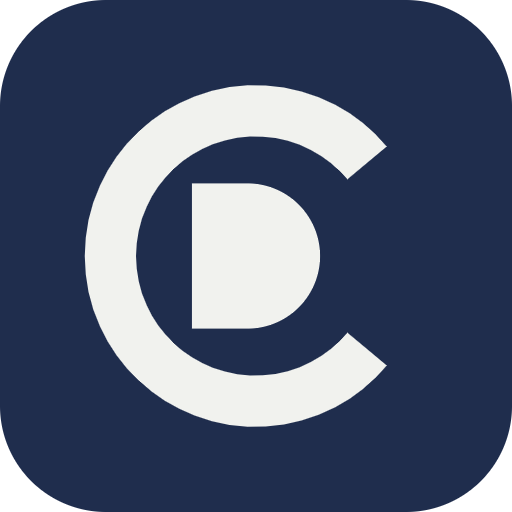
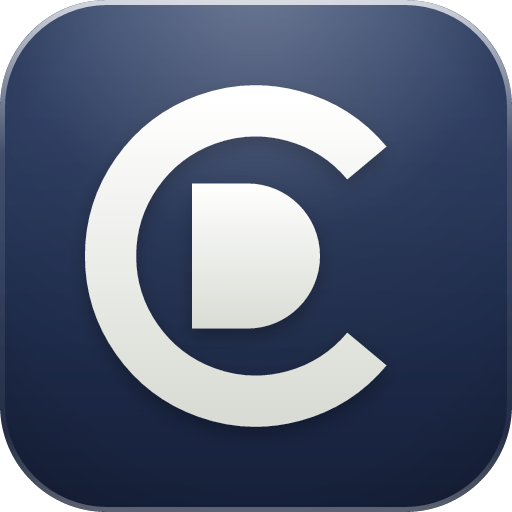
feat: ícones novos dos produtos na vitrine e troca de toda cópia do ícone antigo da DC Solutions

diff --git a/src/index-v4.html b/src/index-v4.html
@@ -45,11 +45,11 @@
   </div>
   <div class="varal">
     <ul class="wrap etiquetas" aria-label="Products">
-      <li><a class="tag t-iq" href="#iqnorth"><img src="/assets/v3/logos/iqnorth.svg" width="40" height="40" alt=""><b>IQNorth</b><span>Online IQ test</span><i>Live</i></a></li>
-      <li><a class="tag t-fyt" href="#fytform"><img src="/assets/v3/logos/fytform.svg" width="40" height="40" alt=""><b>Fytform</b><span>Workouts and diet</span><i>Live</i></a></li>
-      <li><a class="tag t-h2h" href="#h2hscout"><img src="/assets/v3/logos/h2hscout.svg" width="40" height="40" alt=""><b>H2HScout</b><span>Brasileirão in numbers</span><i>Closed beta</i></a></li>
-      <li><a class="tag t-pg" href="#partiugringa"><img src="/assets/v3/logos/partiugringa.svg" width="40" height="40" alt=""><b>PartiuGringa</b><span>Jobs abroad for devs</span><i>Live</i></a></li>
-      <li><a class="tag t-grim" href="#runemoire"><img src="/assets/v4/runemoire/icone-112.webp" width="40" height="40" alt=""><b>Runemoire</b><span>Card game for PC</span><i>In development</i></a></li>
+      <li><a class="tag t-iq" href="#iqnorth"><img src="/assets/v4/logos/iqnorth.svg" width="40" height="40" alt=""><b>IQNorth</b><span>Online IQ test</span><i>Live</i></a></li>
+      <li><a class="tag t-fyt" href="#fytform"><img src="/assets/v4/logos/fytform.svg" width="40" height="40" alt=""><b>Fytform</b><span>Workouts and diet</span><i>Live</i></a></li>
+      <li><a class="tag t-h2h" href="#h2hscout"><img src="/assets/v4/logos/h2hscout.svg" width="40" height="40" alt=""><b>H2HScout</b><span>Brasileirão in numbers</span><i>Closed beta</i></a></li>
+      <li><a class="tag t-pg" href="#partiugringa"><img src="/assets/v4/logos/partiugringa.svg" width="40" height="40" alt=""><b>PartiuGringa</b><span>Jobs abroad for devs</span><i>Live</i></a></li>
+      <li><a class="tag t-grim" href="#runemoire"><img src="/assets/v4/logos/runemoire.svg" width="40" height="40" alt=""><b>Runemoire</b><span>Card game for PC</span><i>In development</i></a></li>
     </ul>
   </div>
 </section>
@@ -63,7 +63,7 @@
 
     <article class="prod p-iq" id="iqnorth" aria-labelledby="h-iq">
       <div class="prod-txt">
-        <div class="prod-cab"><img src="/assets/v3/logos/iqnorth.svg" width="56" height="56" alt=""><div><h3 id="h-iq">IQNorth</h3><a class="dom" href="https://iqnorth.com/en/" rel="noopener">iqnorth.com/en</a></div></div>
+        <div class="prod-cab"><img src="/assets/v4/logos/iqnorth.svg" width="56" height="56" alt=""><div><h3 id="h-iq">IQNorth</h3><a class="dom" href="https://iqnorth.com/en/" rel="noopener">iqnorth.com/en</a></div></div>
         <p class="estado">Live</p>
         <p class="prod-frase">Online IQ test with a confidence range.</p>
         <p class="prod-desc">40 reasoning questions in 6 areas, with no time limit per question, in about 20 minutes. At the end, you see your estimated IQ with the 95% range and your result by area, plus the Career Map to explore professional interests.</p>
@@ -80,7 +80,7 @@
 
     <article class="prod p-fyt" id="fytform" aria-labelledby="h-fyt">
       <div class="prod-txt">
-        <div class="prod-cab"><img src="/assets/v3/logos/fytform.svg" width="56" height="56" alt=""><div><h3 id="h-fyt">Fytform</h3><a class="dom" href="https://fytform.com/" rel="noopener" hreflang="pt-BR">fytform.com</a></div></div>
+        <div class="prod-cab"><img src="/assets/v4/logos/fytform.svg" width="56" height="56" alt=""><div><h3 id="h-fyt">Fytform</h3><a class="dom" href="https://fytform.com/" rel="noopener" hreflang="pt-BR">fytform.com</a></div></div>
         <p class="estado">Live</p>
         <p class="prod-frase">Workouts and diet built around you.</p>
         <p class="prod-desc">Answer 17 questions in about 5 minutes and get the week’s workouts and a diet in grams, with swaps. All on your phone, with Fyt, an AI assistant that knows your plan.</p>
@@ -98,7 +98,7 @@
 
     <article class="prod p-h2h" id="h2hscout" aria-labelledby="h-h2h">
       <div class="prod-txt">
-        <div class="prod-cab"><img src="/assets/v3/logos/h2hscout.svg" width="56" height="56" alt=""><div><h3 id="h-h2h">H2HScout</h3><a class="dom" href="https://h2hscout.com/" rel="noopener" hreflang="pt-BR">h2hscout.com</a></div></div>
+        <div class="prod-cab"><img src="/assets/v4/logos/h2hscout.svg" width="56" height="56" alt=""><div><h3 id="h-h2h">H2HScout</h3><a class="dom" href="https://h2hscout.com/" rel="noopener" hreflang="pt-BR">h2hscout.com</a></div></div>
         <p class="estado">Closed beta</p>
         <p class="prod-frase">The Brasileirão in numbers, no smoke and mirrors.</p>
         <p class="prod-desc">Statistical analysis of the Brasileirão Série A, with each number adjusted for the strength of the opponent. When the sample is too small to trust, the screen says so.</p>
@@ -115,7 +115,7 @@
 
     <article class="prod p-pg" id="partiugringa" aria-labelledby="h-pg">
       <div class="prod-txt">
-        <div class="prod-cab"><img src="/assets/logos/partiugringa.svg" width="56" height="56" alt=""><div><h3 id="h-pg">PartiuGringa</h3><a class="dom" href="https://partiugringa.com/" rel="noopener" hreflang="pt-BR">partiugringa.com</a></div></div>
+        <div class="prod-cab"><img src="/assets/v4/logos/partiugringa.svg" width="56" height="56" alt=""><div><h3 id="h-pg">PartiuGringa</h3><a class="dom" href="https://partiugringa.com/" rel="noopener" hreflang="pt-BR">partiugringa.com</a></div></div>
         <p class="estado">Live</p>
         <p class="prod-frase">International jobs for Brazilian developers.</p>
         <p class="prod-desc">Helps Brazilian developers land international jobs: an AI review of your LinkedIn profile, remote roles open to LATAM, and a tailored CV for each job.</p>

diff --git a/worker/csp.js b/worker/csp.js
@@ -1,2 +1,2 @@
 // gerado por ferramentas/build.mjs
-export const CSP = "default-src 'none'; script-src 'sha256-l4ZR1+S8Y2Vt31tfDRwMHMqCyqheoJjpNGe4iP6IZv4=' 'sha256-MWn5GLtaUe7RhpHYzU49HePmOwWH28XorRxwlolKR9s=' 'sha256-7E6QZO0/ehFfVhoxL5Y1ydZUtfZzL8H2Y3/qBMpUc9o=' https://*.clarity.ms; style-src 'sha256-pPUi8gFvcSgk69zctTP96AeBcrHUAlnjBSuAwASd6LE=' 'sha256-fQ8CousczChKNLeVaFsEs2yGNwsY0z1WWGvOIb+F7nQ=' 'sha256-XqvgoKYMq7ZPFymaFNGs7yNrJUMrtgpZFEksMIacv0U='; img-src 'self' data:; font-src 'self'; connect-src 'self' https://*.clarity.ms; manifest-src 'self'; base-uri 'none'; form-action 'none'; frame-ancestors 'none'; upgrade-insecure-requests";
+export const CSP = "default-src 'none'; script-src 'sha256-l4ZR1+S8Y2Vt31tfDRwMHMqCyqheoJjpNGe4iP6IZv4=' 'sha256-MWn5GLtaUe7RhpHYzU49HePmOwWH28XorRxwlolKR9s=' 'sha256-7E6QZO0/ehFfVhoxL5Y1ydZUtfZzL8H2Y3/qBMpUc9o=' https://*.clarity.ms; style-src 'sha256-pPUi8gFvcSgk69zctTP96AeBcrHUAlnjBSuAwASd6LE=' 'sha256-fQ8CousczChKNLeVaFsEs2yGNwsY0z1WWGvOIb+F7nQ=' 'sha256-nmfJJlg5k+1nY6jBed6TfwJgFeU2CVE/zJ1vz3QxO4A='; img-src 'self' data:; font-src 'self'; connect-src 'self' https://*.clarity.ms; manifest-src 'self'; base-uri 'none'; form-action 'none'; frame-ancestors 'none'; upgrade-insecure-requests";

diff --git a/src/css/v4.css b/src/css/v4.css
@@ -107,7 +107,7 @@
 .grim{--sobre-tom:#1a110d}
 @media (max-width:760px){.grim .grim-logo{width:289px}}
 .p-pg{--bg:#0f2a28;--fg:#e6fffb;--fg2:rgba(230,255,251,.76);--tom:#5eead4;--sobre-tom:#062320;--palco:linear-gradient(160deg,#145a52,#0b201e)}
-.p-pg .prod-cab img{background:#062320;padding:8px}
+/* PartiuGringa: o ícone novo (13/11) já tem placa própria; sem fundo nem respiro extra */
 
 /* varal com 5 etiquetas (09/11): PartiuGringa depois do H2HScout, nas cores do card. Só na v4; a v3 (rollback) segue com 4 */
 .t-pg{--bg:#0f2a28;--fg:#e6fffb}
